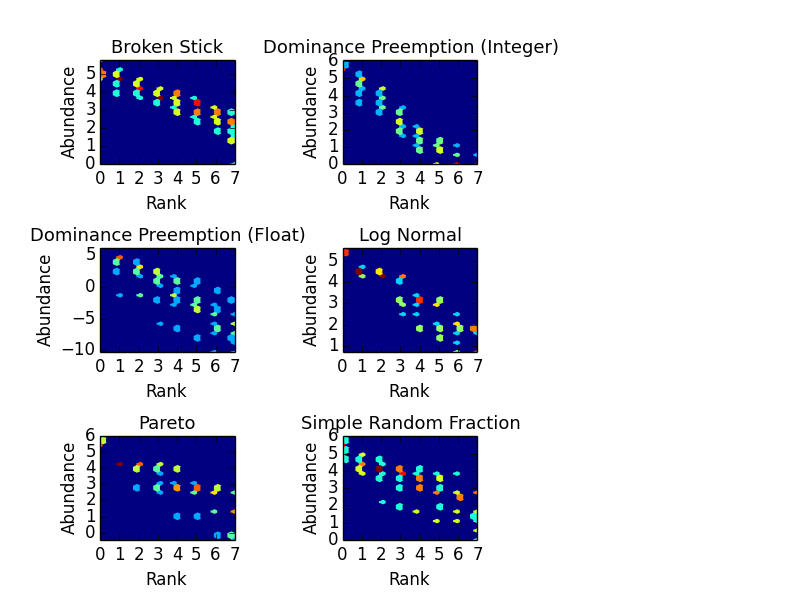
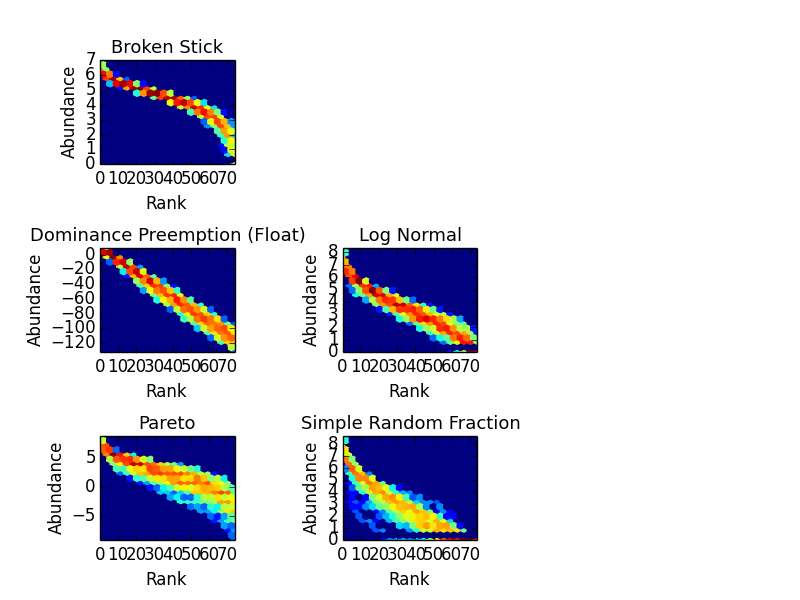
Working with heatmap

diff --git a/RandFracFigs.py b/RandFracFigs.py
@@ -10,9 +10,9 @@ import matplotlib.pyplot as plt
 
 
 
-N = 500
-S = 8
-sample_size = 10
+N = 10000
+S = 75
+sample_size = 50
 
 fig = plt.figure()
 
@@ -25,13 +25,13 @@ plt.ylabel('Abundance')
 
 print 'finished broken stick'
 
-ax = fig.add_subplot(3, 3, 2)  # Debug me
+'''ax = fig.add_subplot(3, 3, 2)  # Debug me
 DPI = Models.DomPreInt(N, S, sample_size)
 fig = HeatMap.RACHeatMap(fig, DPI)
 plt.title('Dominance Preemption (Integer)', fontsize = 13)
 plt.xlabel('Rank')
 plt.ylabel('Abundance')
-print 'finished dominance preemption (integers)' 
+print 'finished dominance preemption (integers)' '''
 
 ax = fig.add_subplot(3, 3, 4)
 DPF = Models.DomPreFloat(N, S, sample_size)
